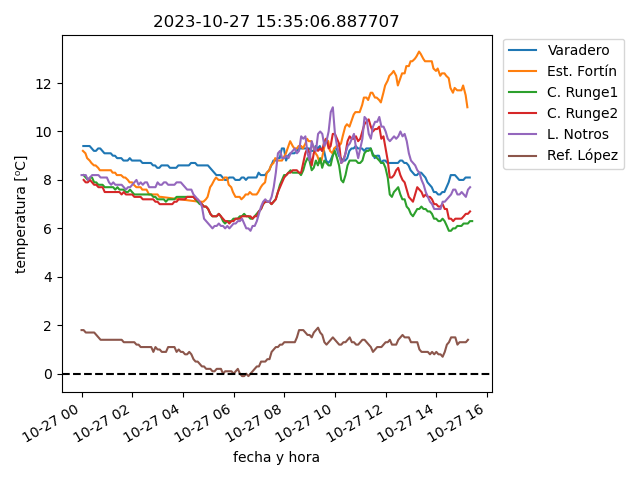
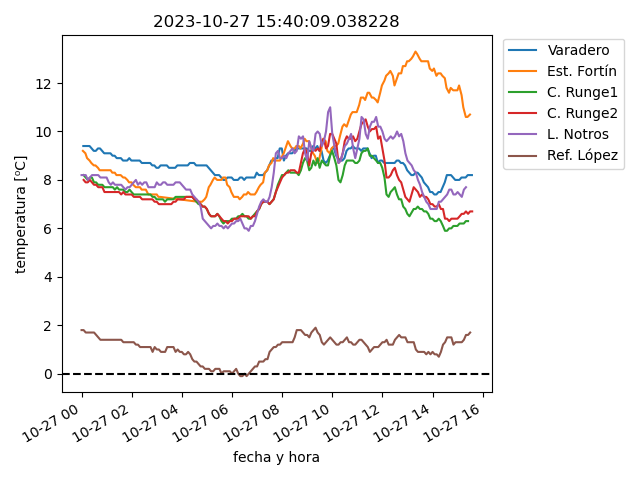
actualiza datos

diff --git a/estaciones/estacion4.html b/estaciones/estacion4.html
@@ -13,17 +13,17 @@
     </tr>
     <tr>
      <td class="stats_data">
-      2023-10-27 15:19:54
+      2023-10-27 15:34:50
      </td>
     </tr>
     <tr>
      <td class="stats_data">
-      TEMPERATURA / 5.8⁰C
+      TEMPERATURA / 5.7⁰C
      </td>
     </tr>
     <tr>
      <td class="stats_data">
-      94.8%
+      94.5%
      </td>
     </tr>
     <tr>
@@ -33,22 +33,22 @@
     </tr>
     <tr>
      <td class="stats_data">
-      7.3/12.6 km/hr SW
+      6.3/8.9 km/hr SSW
      </td>
     </tr>
     <tr>
      <td class="stats_data">
-      4.8 / 1.19 mm
+      5.59 / 3.0 mm
      </td>
     </tr>
     <tr>
      <td class="stats_data">
-      1.0
+      2.0
      </td>
     </tr>
     <tr>
      <td class="stats_data">
-      171.8 W/m²
+      228.4 W/m²
      </td>
     </tr>
    </tbody>

diff --git a/estaciones/estacion2.html b/estaciones/estacion2.html
@@ -13,17 +13,17 @@
     </tr>
     <tr>
      <td class="stats_data">
-      2023-10-27 15:13:33
+      2023-10-27 15:29:34
      </td>
     </tr>
     <tr>
      <td class="stats_data">
-      TEMPERATURA / 5.1⁰C
+      TEMPERATURA / 4.9⁰C
      </td>
     </tr>
     <tr>
      <td class="stats_data">
-      67.0%
+      67.7%
      </td>
     </tr>
     <tr>
@@ -33,7 +33,7 @@
     </tr>
     <tr>
      <td class="stats_data">
-      28.1/45.1 km/hr WSW
+      25.8/34.3 km/hr WSW
      </td>
     </tr>
     <tr>
@@ -43,12 +43,12 @@
     </tr>
     <tr>
      <td class="stats_data">
-      3.9
+      4.0
      </td>
     </tr>
     <tr>
      <td class="stats_data">
-      642.0 W/m²
+      796.0 W/m²
      </td>
     </tr>
    </tbody>

diff --git a/estaciones/estacion1.html b/estaciones/estacion1.html
@@ -13,17 +13,17 @@
     </tr>
     <tr>
      <td class="stats_data">
-      2023-10-27 15:19:11
+      2023-10-27 15:34:11
      </td>
     </tr>
     <tr>
      <td class="stats_data">
-      TEMPERATURA / 6.5⁰C
+      TEMPERATURA / 6.6⁰C
      </td>
     </tr>
     <tr>
      <td class="stats_data">
-      89.4%
+      89.5%
      </td>
     </tr>
     <tr>
@@ -33,7 +33,7 @@
     </tr>
     <tr>
      <td class="stats_data">
-      36.5/41.4 km/hr WNW
+      35.1/39.1 km/hr NW
      </td>
     </tr>
     <tr>
@@ -43,12 +43,12 @@
     </tr>
     <tr>
      <td class="stats_data">
-      3.0
+      2.0
      </td>
     </tr>
     <tr>
      <td class="stats_data">
-      387.8 W/m²
+      263.3 W/m²
      </td>
     </tr>
    </tbody>

diff --git a/estaciones/estacion6.html b/estaciones/estacion6.html
@@ -13,32 +13,32 @@
     </tr>
     <tr>
      <td class="stats_data">
-      2023-10-27 15:15:00
+      2023-10-27 15:30:00
      </td>
     </tr>
     <tr>
      <td class="stats_data">
-      TEMPERATURA / 0.9⁰C
+      TEMPERATURA / 1.0⁰C
      </td>
     </tr>
     <tr>
      <td class="stats_data">
-      96.0%
+      95.0%
      </td>
     </tr>
     <tr>
      <td class="stats_data">
-      999.73hPa
+      999.93hPa
      </td>
     </tr>
     <tr>
      <td class="stats_data">
-      27.4/40.2 km/hr SSE
+      25.7/41.8 km/hr SSE
      </td>
     </tr>
     <tr>
      <td class="stats_data">
-      10.16 / 2.54 mm
+      10.67 / 2.29 mm
      </td>
     </tr>
     <tr>
